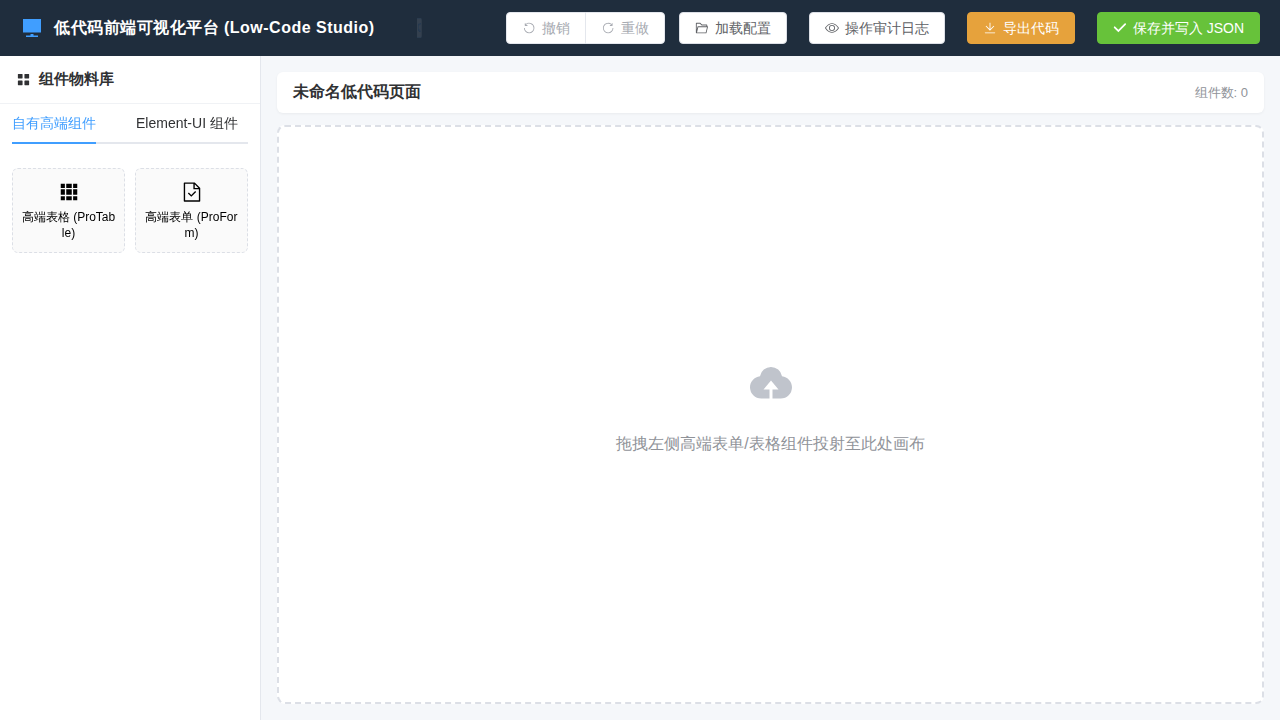
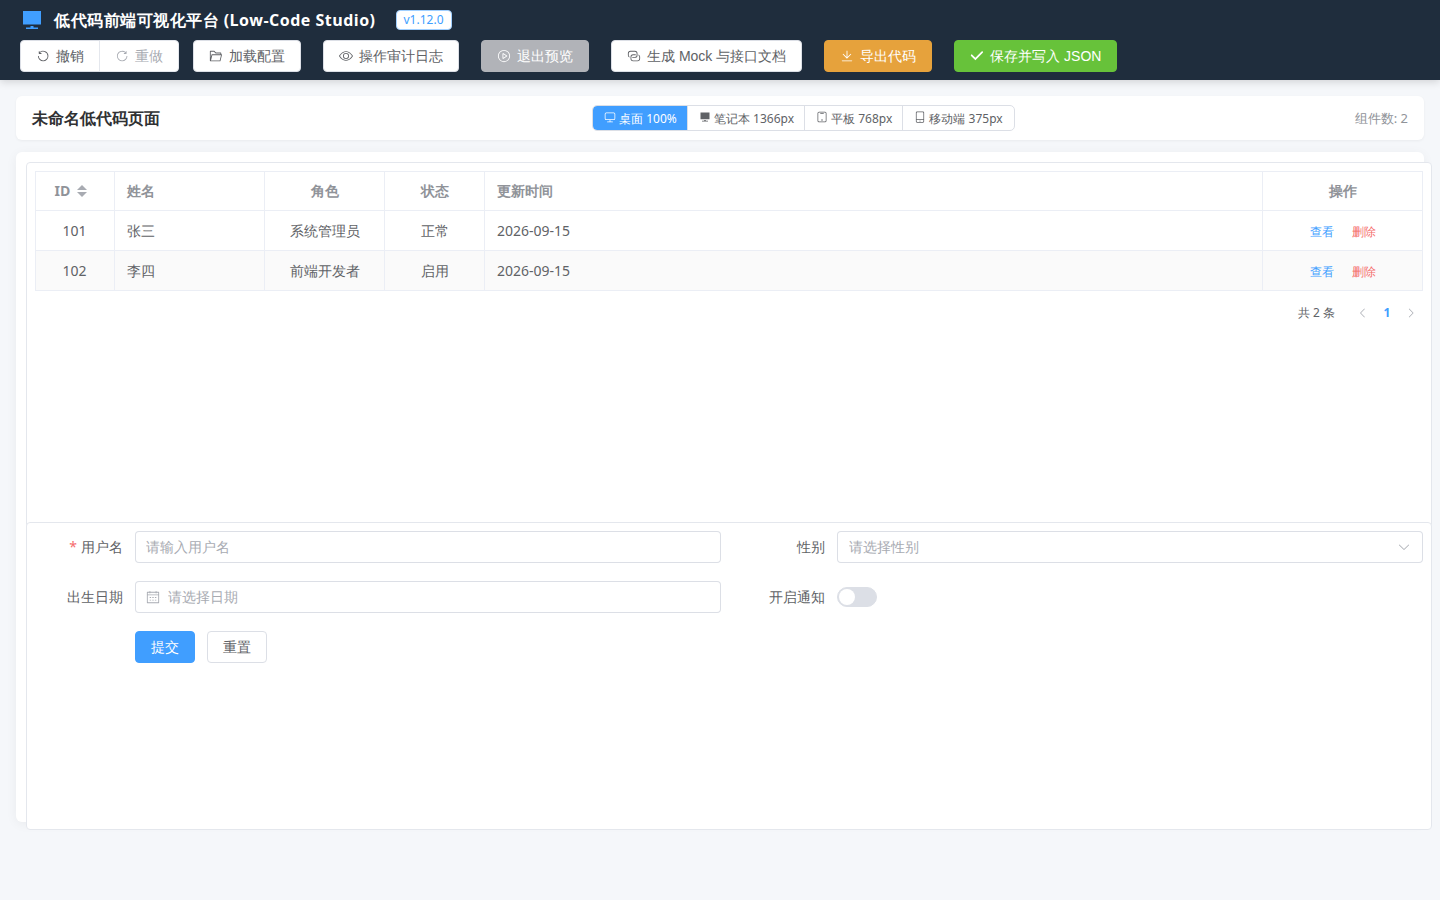
docs: rewrite the README around the designer and add screenshots
Show the canvas, form config, preview, Vue export, corpus, and API doc from the running designer, and point the introduction at what v1.12.0 actually does.

diff --git a/frontend/src/components.d.ts b/frontend/src/components.d.ts
@@ -18,6 +18,7 @@ declare module 'vue' {
     ElButton: typeof import('element-plus/es')['ElButton']
     ElButtonGroup: typeof import('element-plus/es')['ElButtonGroup']
     ElCard: typeof import('element-plus/es')['ElCard']
+    ElCheckbox: typeof import('element-plus/es')['ElCheckbox']
     ElCol: typeof import('element-plus/es')['ElCol']
     ElDatePicker: typeof import('element-plus/es')['ElDatePicker']
     ElDescriptions: typeof import('element-plus/es')['ElDescriptions']

diff --git a/README.md b/README.md
@@ -1,41 +1,50 @@
-# 低代码前端可视化平台 (Low-Code Frontend Platform)
+# 低代码前端可视化平台
 
-> 高性能、高可扩展性、高度模块化的企级 Vue 3 低代码可视化前端搭建平台与出码引擎。
+拖拽搭页面，再导出成能运行的前端代码。当前版本 **v1.12.0**。
 
-![低代码可视化编辑器界面预览](docs/assets/preview.png)
-
----
-
-## 📖 项目简介
-
-本项目旨在打造一款可通过**可视化拖拉拽**快速生成 Vue 3 页面的低代码平台。平台以 **JSON Schema 为唯一映射桥梁**连接 UI 组件层。当前版本 **v1.12.0**：导出语料库时，同一页面各写一条 Vue 组件和一条 HTML 组件。完整管道编排与远程物料仍在规划中（详见 `docs/`）。
-
-项目采用了 **Node.js + Express + SQLite** 架构，其中页面/组件的 Schema 配置文件**直接存储为本地 `.json` 文件**，而 SQLite 数据库专用于记录高可靠的**操作审计日志 (Operation Audit Logs)**。
+页面在设计器里是一份 JSON Schema。表格、表单和按钮都由这份 Schema 渲染。导出时，同一份 Schema 生成 Vue 单文件组件、独立 HTML，以及由这两种组件组成的语料库。平台不生成后端业务代码。页面 JSON 存在本地文件里，SQLite 只记操作日志。
 
 ---
 
-## ✨ 核心特性
+## 界面
 
-> 状态标注：✅ 已实现　🔜 规划中/未实现（详见 `docs/` 各版本规划文档）
+拖入高端表格和高端表单后的画布。左侧是物料，中间是网格，顶栏负责预览、Mock、导出和保存。
 
-- **✅ 可视化网格布局引擎**：集成 `vue3-grid-layout-next` 拖拽画布，支持组件拖投放置、自由缩放拉伸、自动响应式网格布局、对齐参考线与吸附指示。
-- **✅ 丰富的分类物料库**：
-  - **自有高端组件 (Pro Components)**：`高端表格 (ProTable)`（支持列可视化定义、排序、分页、操作列按钮）、`高端表单 (ProForm)`（支持多列布局、多类型表单控件与必填校验）。
-  - **Element-UI 组件 (Native UI Components)**：`按钮 (Button)`、`输入框 (Input)`、`卡片 (Card)`、`标签 (Tag)`、`警告提示 (Alert)`、`开关 (Switch)`、`分割线 (Divider)` 等。
-- **✅ 可视化属性配置抽屉 (Property Drawer)**：
-  - **属性 Props**：实时修改组件外观与原生属性。
-  - **高级 Config**：动态可视化增删/重排表格列定义及表单项。
-  - **原生 Attrs**：动态透传原生 HTML 属性。
-  - **JSON 源码预览**：实时生成并渲染对应 Schema，支持一键复制。
-- **✅ 存储与审计解耦架构**：
-  - **JSON 文件直接存储**： Schema 数据写入后端 `storage/pages/{page_id}.json`，实现极佳的人类可读性与无缝 Git 版本追踪（原子写入 + 备份）。
-  - **SQLite 审计留痕**：所有的修改、保存与删除操作均自动落盘至 SQLite 操作日志表（`logs.db`）。
-- **✅ 多图层系统**：弹窗 (Dialog) / Loading 遮罩 / 自定义 HTML 三种图层，支持显隐切换、zIndex 管理与生命周期脚本钩子。
-- **✅ 多目标出码引擎**：Vue 3 SFC (`.vue`) / W3C Web Component (`.js`，配套 PageTemplate.vue) / 独立 HTML (`.html`，CDN 完整渲染) 三目标均为**完整渲染**，并对用户配置内容做 HTML 转义与标签名安全化。
-- **✅ 数据驱动能力**：接口数据源绑定（`apiBinding`）、表达式绑定真实渲染（`{{ }}`）、事件动作链（从列表选择目标；失败即停止），出码产物生成带 10 秒超时的前端 `fetch`。
-- **✅ 操作历史与自动保存**：撤销/重做覆盖布局和属性修改（连续输入合并成一步，并按体积丢弃最早快照）、复制/粘贴/删除快捷键、3 分钟无感自动保存。
-- **✅ 安全加固**：后端 Schema 落盘前 Zod 强校验（结构、脚本/HTML 长度、id 禁止路径字符）；表达式求值器为受限解释器（拒绝函数调用/赋值/原型链访问，不使用 `eval`），出码只内联通过该解释器的表达式；自定义 HTML 在设计器和导出页面都放进 sandbox iframe；API 默认只监听 `127.0.0.1`，CORS 默认只放行本地设计器。
-- **✅ 工程化与质量**：Vitest 单元测试（前端 69、后端 5）、ESLint + Prettier（0 error / 0 warning）、GitHub Actions CI（双 Node 版本）、`shared` 共享类型包、Element Plus 按需引入。
+![设计器画布：表格与表单](docs/assets/designer.png)
+
+表单项在属性抽屉里配置。可以改字段名、控件类型、必填、占位提示，并上移下移。表格列用同一套方式调整。
+
+![表单项配置](docs/assets/form-config.png)
+
+纯预览去掉拖拽手柄和删除按钮，页面上的表格、表单和按钮仍可操作。
+
+![纯预览](docs/assets/preview.png)
+
+导出对话框里的 Vue 单文件组件，和画布使用同一份占位、标签宽度和分页配置。旁边还有 Web Component 和独立 HTML。
+
+![导出 Vue 组件](docs/assets/export-vue.png)
+
+语料库把当前页面写成两行 JSONL：一行 Vue 组件，一行 HTML 组件。也可以并入已经保存的页面。
+
+![语料库导出](docs/assets/corpus.png)
+
+还没填地址的表格和表单，可以一键补上 `/api/mock/` 数据源，并写出前端实际会请求的接口说明。
+
+![Mock 与接口文档](docs/assets/api-doc.png)
+
+---
+
+## 能做什么
+
+- **拖拽搭页面**：网格画布上拖入、缩放、对齐。物料包括高端表格、高端表单，以及按钮、输入框、卡片、标签、警告、开关、分割线。
+- **改配置而不是改代码**：列、表单项、显隐条件、页面初始状态和事件动作都写在 Schema 里。
+- **出三种前端产物**：Vue 3 单文件组件、配套的 Web Component，以及用 CDN 就能打开的 HTML。
+- **导出语料库**：`corpus.jsonl` 里每个页面各有一条 Vue 记录和一条 HTML 记录。
+- **对接已有接口**：组件绑定 `apiBinding` 后，设计器和导出页面都用浏览器 `fetch` 取数。没有地址时可以生成 Mock，并附上接口文档。
+- **页面可以收尾**：改标题、保存、载入、删除、恢复上一份备份。撤销和重做覆盖拖拽和属性修改。
+- **本地保存**：Schema 写到 `backend/storage/pages/*.json`。保存、删除和恢复记在 SQLite。
+
+管道编排、远程物料、协同和登录不在当前版本里，规划见 `docs/roadmap/`。
 
 ### 🔜 规划中的核心能力（详见 `docs/`）
 
@@ -192,7 +201,7 @@ npm run build
 ```bash
 npm run typecheck   # 前后端类型检查
 npm run lint        # ESLint（0 error / 0 warning 门槛）
-npm run test        # Vitest：前端 69 用例 + 后端 5 用例
+npm run test        # Vitest：前端 102 项 + 后端 11 项
 npm run format      # Prettier 全仓格式化
 ```
 
